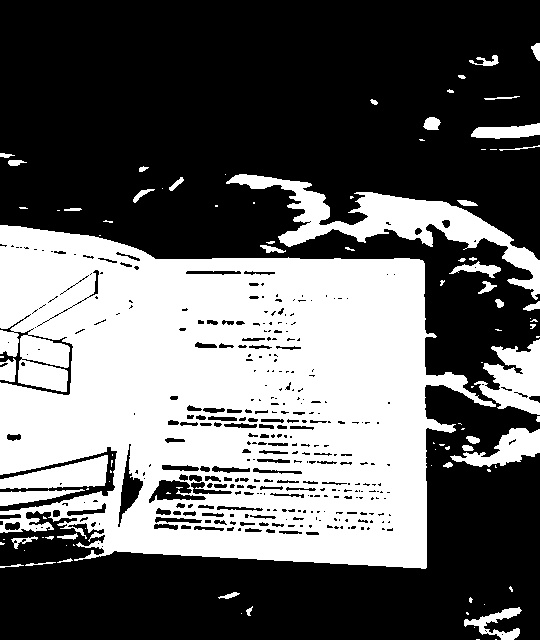
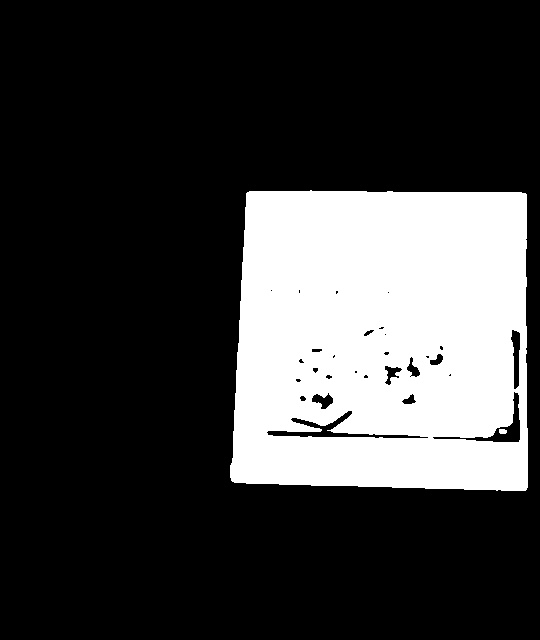
added a way to determine square object inside image

diff --git a/help/lib/application.dart b/help/lib/application.dart
@@ -21,7 +21,7 @@ class Command {
 class Application {
   static void scanText(String rawText) {
     final text = rawText.toLowerCase();
-    print(text);
+    if (text.isEmpty) return;
     if (text.contains(Command.email)) {
       final body = _getTextAfterCommand(text: text, command: Command.email);
       openEmail(body: body);
@@ -117,11 +117,15 @@ class Application {
     }
   }
 
+  static var cameras;
+  static var camera;
   static Future APICall(String command) async {
-    final cameras = await availableCameras();
-    final camera = cameras.first;
+    if (camera == null) {
+      cameras = await availableCameras();
+      camera = cameras.first;
+    }
 
-    String result = await _showCamera(camera, command == 'read');
+    String result = await _showCamera(camera, command == Command.readText);
     http.Response output = await http
         .post(Uri.parse("http://192.168.1.69:5000/${command}"), body: result);
     if (output.statusCode == 200) {

diff --git a/help/lib/widget/home_page.dart b/help/lib/widget/home_page.dart
@@ -29,7 +29,7 @@ class _HomePageState extends State<HomePage> {
               text: text,
               terms: Command.all,
               textStyle: TextStyle(
-                fontSize: 32.0,
+                fontSize: 64.0,
                 color: Colors.black,
                 fontWeight: FontWeight.w400,
               ),

diff --git a/visually-impaired-master/CheckForSquareImage.py b/visually-impaired-master/CheckForSquareImage.py
@@ -1,4 +1,4 @@
-import cv2
+import cv2 as cv
 import numpy as np
 from ocr_core import mark_region
 
@@ -10,9 +10,9 @@ heightImg = 640
 #####################################
 
 def Main():
-    img = cv2.imread("accept.jpg")
+    img = cv.imread("accept.jpg")
 
-    img = cv2.resize(img, (widthImg, heightImg))
+    img = cv.resize(img, (widthImg, heightImg))
     imgContour = img.copy()
 
     imgThrees = preProcessing(img)
@@ -21,33 +21,34 @@ def Main():
     if biggest.size != 0:
         print("I AM Here")
         imgWarped = getWarp(img, biggest)
-        cv2.imwrite("accept.jpg", imgWarped)
+        cv.imwrite("accept.jpg", imgWarped)
     return mark_region()
 
 
 def preProcessing(img):
-    imgGray = cv2.cvtColor(img, cv2.COLOR_BGR2GRAY)
-    imgBlur = cv2.GaussianBlur(imgGray, (5, 5), 1)
-    (thresh, blackAndWhiteImage) = cv2.threshold(imgBlur, 127, 255, cv2.THRESH_BINARY)
-    cv2.imwrite("2.jpg", blackAndWhiteImage)
+    img = cv.medianBlur(img, 5)
+    img = cv.cvtColor(img, cv.COLOR_BGR2GRAY)
+    blur = cv.GaussianBlur(img, (5, 5), 0)
+    _, blackAndWhiteImage = cv.threshold(blur, 0, 255, cv.THRESH_BINARY + cv.THRESH_OTSU)
+    cv.imwrite("2.jpg", blackAndWhiteImage)
     return blackAndWhiteImage
 
 
 def getContours(img, imgContour):
     biggest = np.array([])
     maxArea = 0
-    contours, _ = cv2.findContours(img, cv2.RETR_EXTERNAL, cv2.CHAIN_APPROX_NONE)
+    contours, _ = cv.findContours(img, cv.RETR_EXTERNAL, cv.CHAIN_APPROX_NONE)
     for cnt in contours:
-        area = cv2.contourArea(cnt)
+        area = cv.contourArea(cnt)
         print(area)
-        # cv2.drawContours(imgContour, cnt, -1, (255, 0, 0), 3)
-        peri = cv2.arcLength(cnt, True)
-        approx = cv2.approxPolyDP(cnt, 0.02 * peri, True)
+        # cv.drawContours(imgContour, cnt, -1, (255, 0, 0), 3)
+        peri = cv.arcLength(cnt, True)
+        approx = cv.approxPolyDP(cnt, 0.02 * peri, True)
         if area > maxArea and len(approx) == 4:
             biggest = approx
             maxArea = area
     print("This is max area " + str(maxArea))
-    cv2.drawContours(imgContour, biggest, -1, (255, 0, 0), 20)
+    cv.drawContours(imgContour, biggest, -1, (255, 0, 0), 20)
     return biggest
 
 
@@ -69,10 +70,10 @@ def getWarp(img, biggest):
     biggest = reorder(biggest)
     pts1 = np.float32(biggest)
     pts2 = np.float32([[0, 0], [widthImg, 0], [0, heightImg], [widthImg, heightImg]])
-    matrix = cv2.getPerspectiveTransform(pts1, pts2)
-    imgOutput = cv2.warpPerspective(img, matrix, (widthImg, heightImg))
+    matrix = cv.getPerspectiveTransform(pts1, pts2)
+    imgOutput = cv.warpPerspective(img, matrix, (widthImg, heightImg))
 
     imgCropped = imgOutput[20:imgOutput.shape[0] - 20, 20:imgOutput.shape[1] - 20]
-    imgCropped = cv2.resize(imgCropped, (widthImg, heightImg))
+    imgCropped = cv.resize(imgCropped, (widthImg, heightImg))
     # imgCropped = cv2.circle(imgCropped,(400,50),30,(0,0,255),cv2.FILLED)
     return imgCropped

diff --git a/visually-impaired-master/ocr_core.py b/visually-impaired-master/ocr_core.py
@@ -7,5 +7,5 @@ def mark_region():
     im = cv2.imread("accept.jpg")
     gray = cv2.cvtColor(im, cv2.COLOR_BGR2GRAY)
     blurs = cv2.GaussianBlur(gray, (9, 9), 0)
-    text = str(pytesseract.image_to_string(blurs, config='--psm 6'))
+    text = str(pytesseract.image_to_string(im, config='--psm 6'))
     return text
